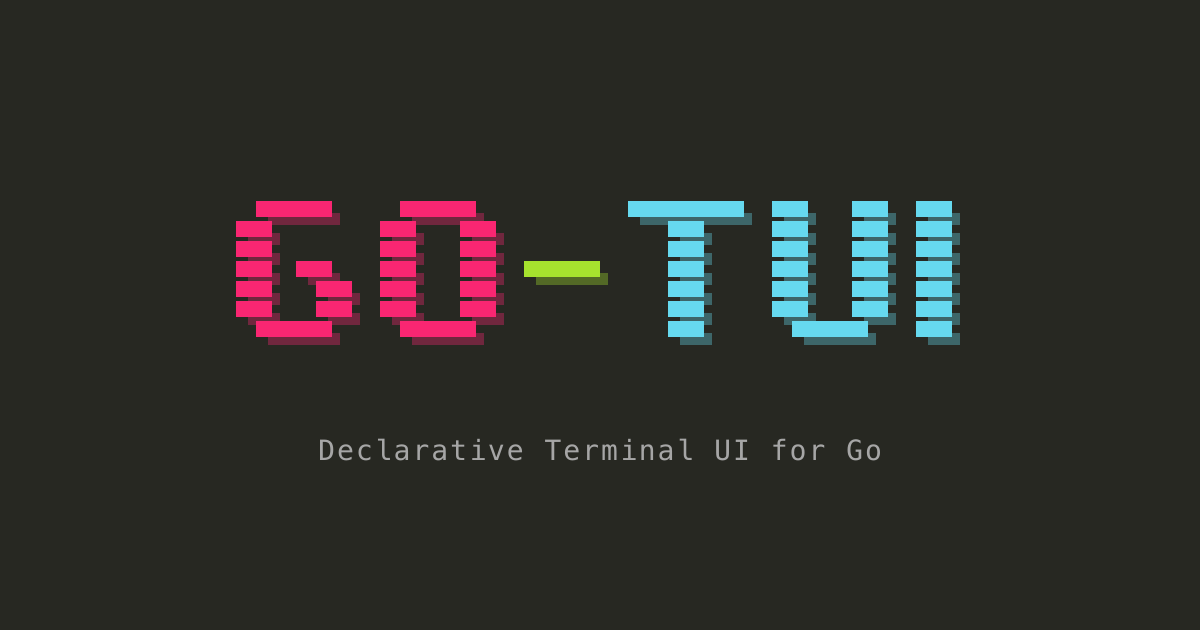
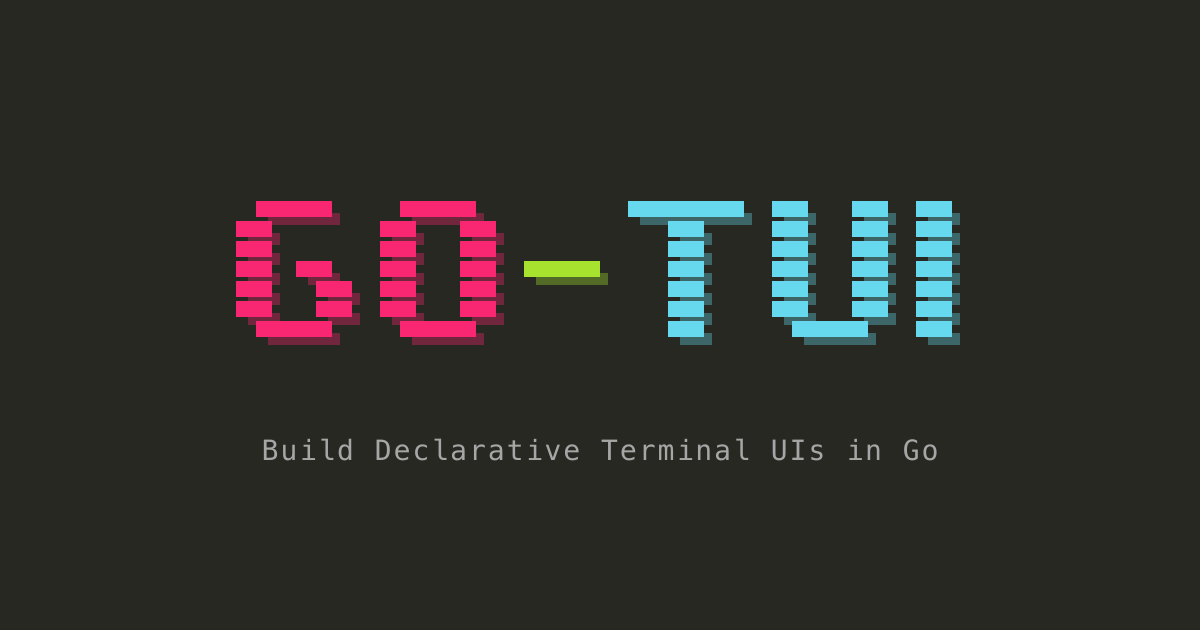
update site metadata

Changed region(s): [[0.2158, 0.6937, 0.8017, 0.754]]

diff --git a/docs/index.html b/docs/index.html
@@ -6,16 +6,16 @@
   <link rel="icon" type="image/svg+xml" href="/go-tui-favicon.svg" />
   <meta name="viewport" content="width=device-width, initial-scale=1.0" />
   <meta name="description" content="Terminal UI framework for Go. .gsx templates compile to type-safe Go with flexbox layout and reactive state. No external dependencies." />
-  <meta property="og:title" content="go-tui - Declarative Terminal UI for Go" />
+  <meta property="og:title" content="go-tui - Build Declarative Terminal UIs in Go" />
   <meta property="og:description" content="Terminal UI framework for Go. .gsx templates compile to type-safe Go with flexbox layout and reactive state. No external dependencies." />
   <meta property="og:type" content="website" />
   <meta property="og:url" content="https://go-tui.dev" />
   <meta property="og:image" content="https://go-tui.dev/og-image-dark.png" />
   <meta name="twitter:card" content="summary_large_image" />
-  <meta name="twitter:title" content="go-tui - Declarative Terminal UI for Go" />
+  <meta name="twitter:title" content="go-tui - Build Declarative Terminal UIs in Go" />
   <meta name="twitter:description" content="Terminal UI framework for Go. .gsx templates compile to type-safe Go with flexbox layout and reactive state. No external dependencies." />
   <meta name="twitter:image" content="https://go-tui.dev/og-image-dark.png" />
-  <title>go-tui - Declarative Terminal UI for Go</title>
+  <title>go-tui - Build Declarative Terminal UIs in Go</title>
   <link rel="preconnect" href="https://fonts.googleapis.com" />
   <link rel="preconnect" href="https://fonts.gstatic.com" crossorigin />
   <link href="https://fonts.googleapis.com/css2?family=Fira+Code:wght@300;400;500;600;700&family=IBM+Plex+Sans:wght@300;400;500;600;700&display=swap" rel="stylesheet" />
